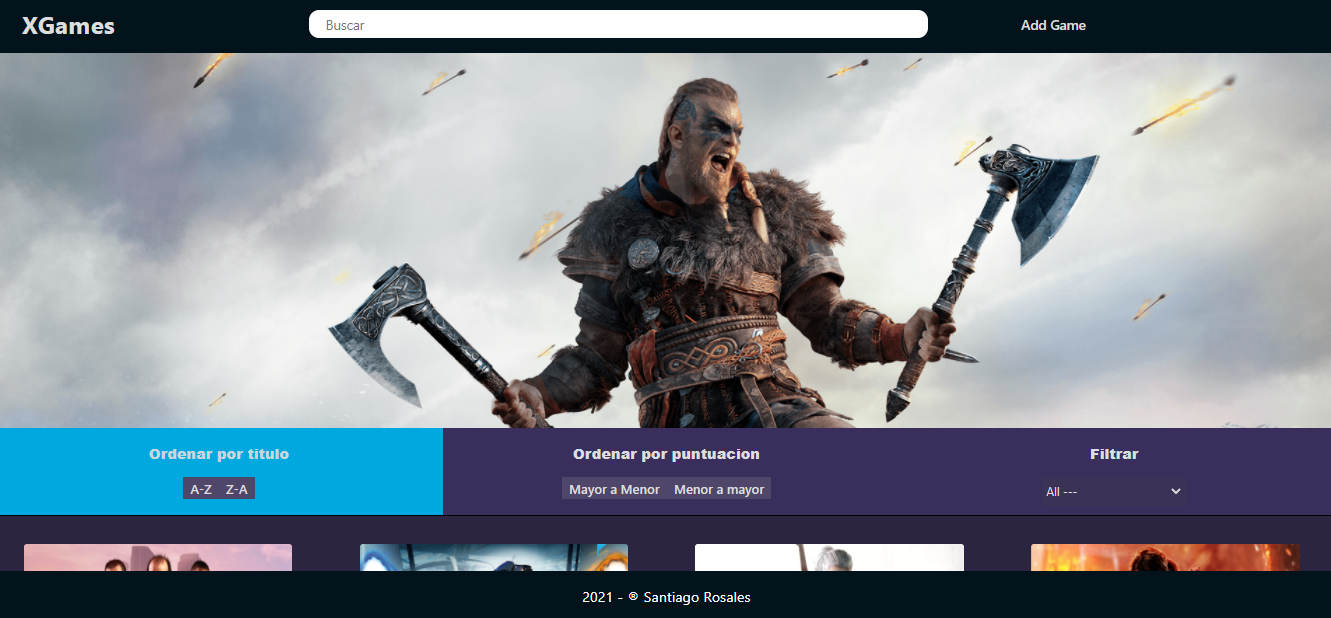
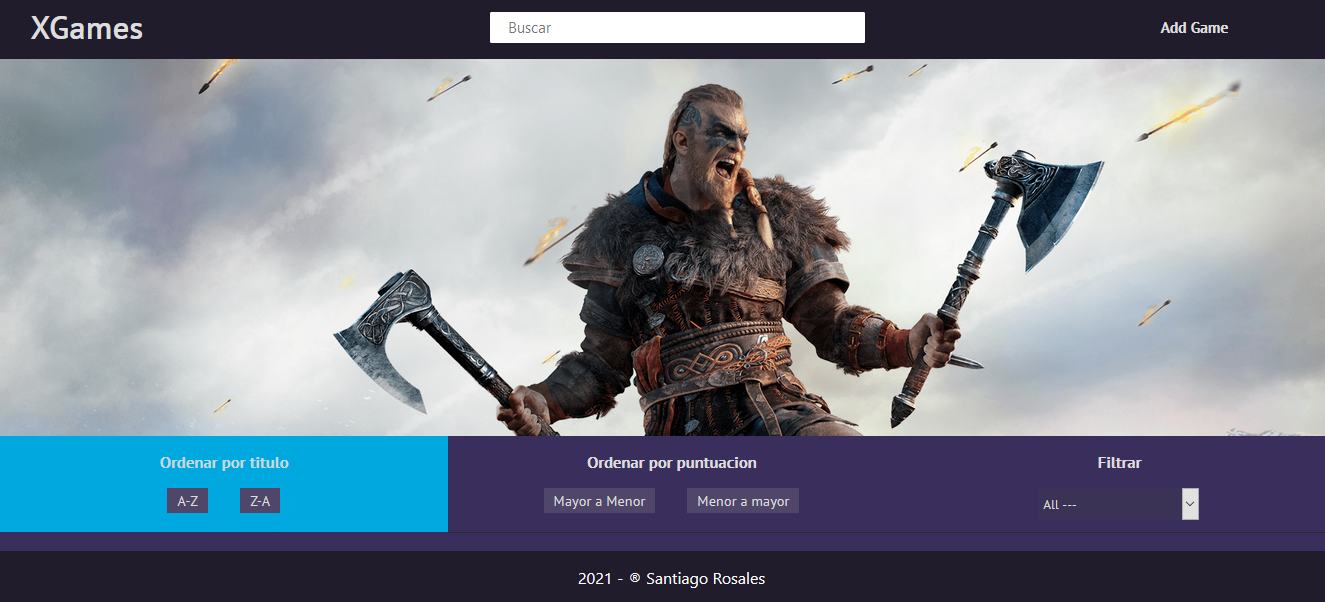
last changes -v

diff --git a/src/components/SideBar/Sidebar.jsx b/src/components/SideBar/Sidebar.jsx
@@ -9,8 +9,12 @@ import {
   SidebarRoute,
 } from "./SidebarElements";
 import { Link } from "react-scroll";
+import { useTranslation } from "react-i18next";
 
 const Sidebar = ({ toggle, isOpen }) => {
+
+  const [t, i18n] = useTranslation("global")
+
   return (
     <SidebarContainer isOpen={isOpen} onClick={toggle}>
       <Icon onClick={toggle}>
@@ -27,7 +31,7 @@ const Sidebar = ({ toggle, isOpen }) => {
             offset={-70}
             duration={500}
           >
-            <p style={{color:"white"}}>About</p>
+            <p style={{color:"white"}}> {t("links.about")} </p>
           </Link>
           <Link  className="linkSideBar"
             onClick={toggle} 
@@ -38,7 +42,7 @@ const Sidebar = ({ toggle, isOpen }) => {
             offset={-70}
             duration={500}
           >
-            <p style={{color:"white"}}>Experience</p>
+            {t("links.technologies")}
           </Link>
 
           <Link className="linkSideBar"
@@ -50,7 +54,7 @@ const Sidebar = ({ toggle, isOpen }) => {
             offset={-70}
             duration={500}
           >
-           <p style={{color:"white"}}>Work</p> 
+           <p style={{color:"white"}}>   {t("links.work")}</p> 
           </Link>
 
           <Link className="linkSideBar" 
@@ -62,7 +66,7 @@ const Sidebar = ({ toggle, isOpen }) => {
             offset={-70}
             duration={500}
           >
-            <p style={{color:"white"}}>Contact</p>
+            <p style={{color:"white"}}> {t("links.contact")}</p>
           </Link>
 
         </SideBarMenu>

diff --git a/src/components/Experience/Experience.css b/src/components/Experience/Experience.css
@@ -73,14 +73,14 @@
 }
 
 .marcoExperience3 .middle {
-    margin-top: 20%;
+    margin-top: 15%;
 }
 
 .middle {
     transition: .5s ease;
     opacity: 0;
     position: absolute;
-    top: 25%;
+    top: 30%;
     left: 50%;
     transform: translate(-50%, -50%);
     -ms-transform: translate(-50%, -50%);
@@ -265,7 +265,7 @@
     position: relative;
     left:0;
    align-items: center;
-   margin-top: 7rem;
+   margin-top: 6rem;
    height: fit-content;
    transition: none;
   }

diff --git a/src/index.jsx b/src/index.jsx
@@ -11,7 +11,7 @@ import global_en from "./translations/en/global.json"
 
 i18next.init ({
   interpolation: {escapeValue:false},
-  lng:"en",
+  lng:"es",
   resources: {
     es:{
       global: global_es,
